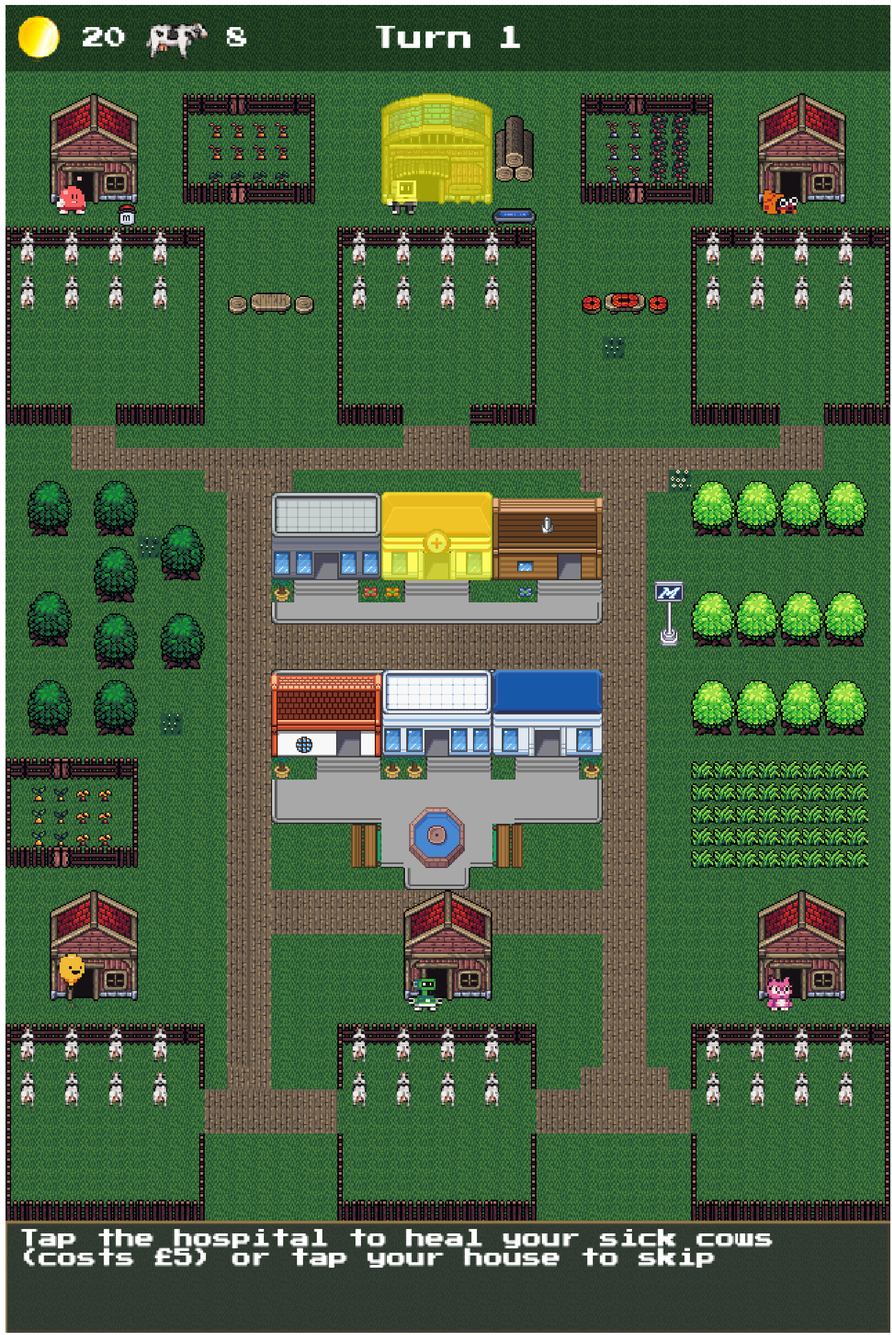
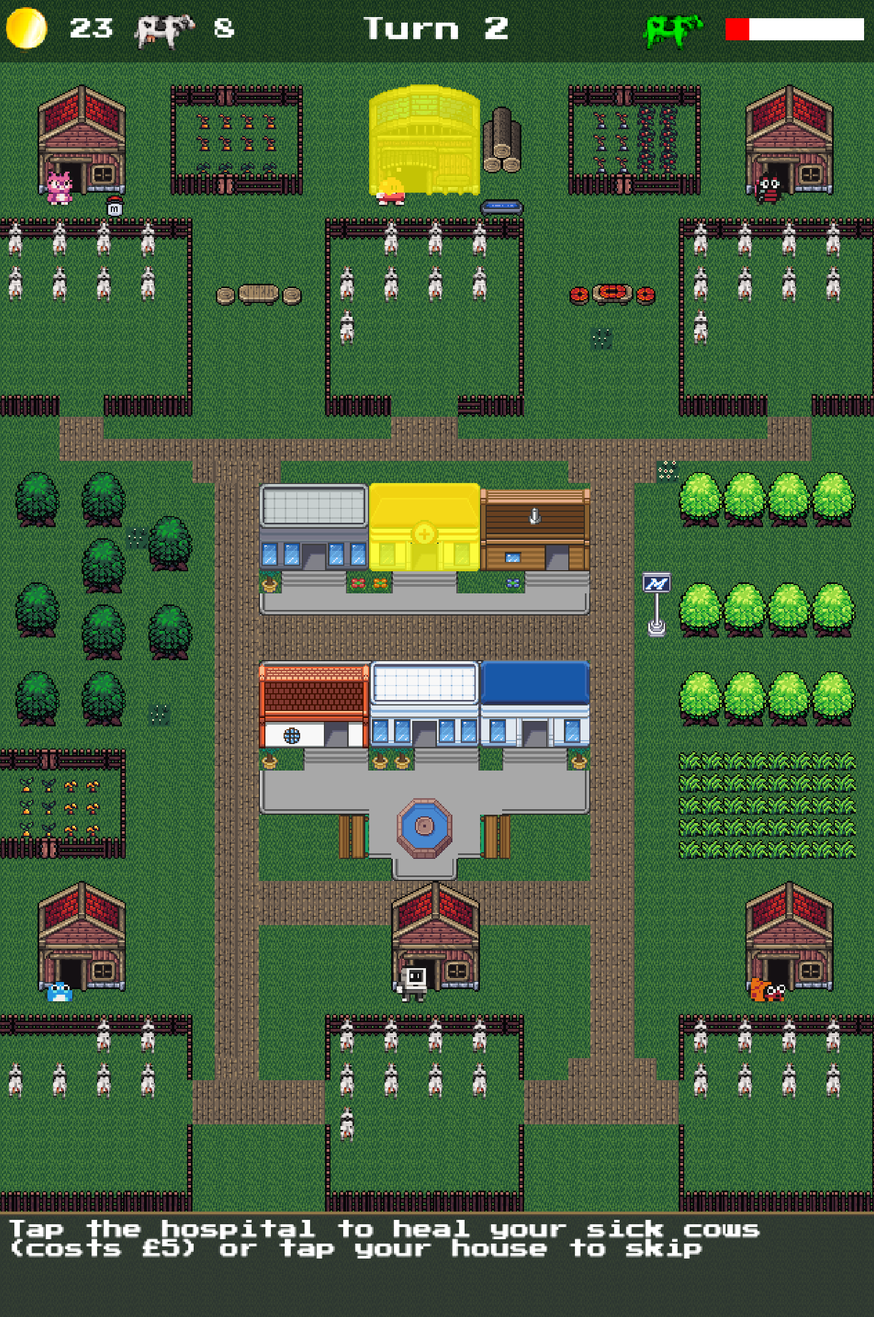
bug fixes (see beta issue comment)

diff --git a/field_game/static/assets/game/scenes/GameScene.js b/field_game/static/assets/game/scenes/GameScene.js
@@ -45,7 +45,8 @@ export default class GameScene extends FieldScene {
         this.herd = [];
 
         // Random number and seed
-        this.randomSeed = Math.random();
+        // Now fixed for consistent play.
+        this.randomSeed = 0.8384816872011894; //Math.random();
         this.currentRandom = this.randomSeed;
 
 
@@ -96,7 +97,7 @@ export default class GameScene extends FieldScene {
         // Control true by default
         let control = 1;
         // Randomly allocate to control group
-        if (Math.random() < 0.5) {
+        if (Math.random() <= 0.5) {
             // In treatment group
             control = 0;
         }
@@ -132,7 +133,8 @@ export default class GameScene extends FieldScene {
                     localStorage.setItem('playerID', gameState.playerID);
                     console.log(response.data.seed);
                     if (response.data.seed && response.data.seed > 0) {
-                        this.randomSeed = response.data.seed;
+                        // Temporarily fixed (see note above)
+                        //this.randomSeed = response.data.seed;
                     }
                     if (response.data.control_group) {
                         gameState.control_group = response.data.control_group;
